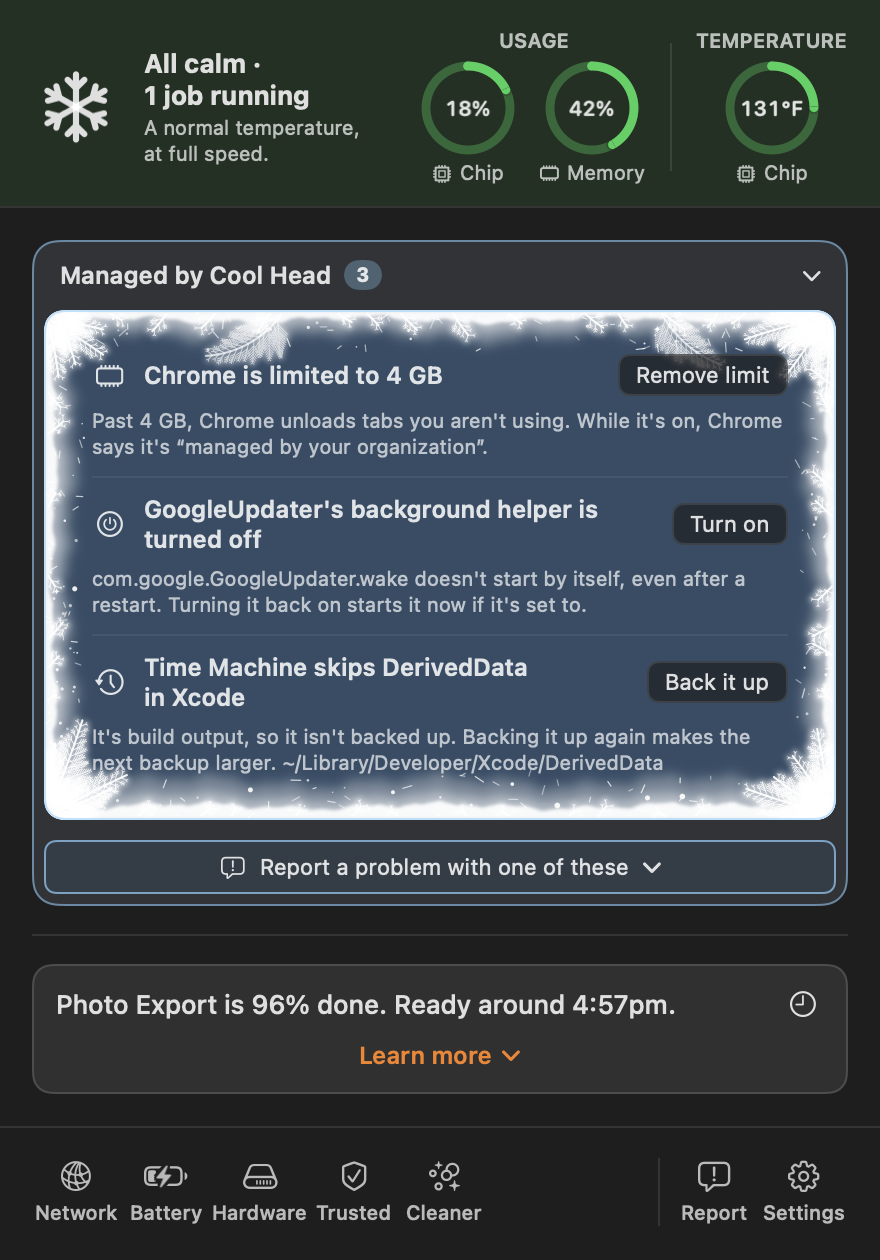
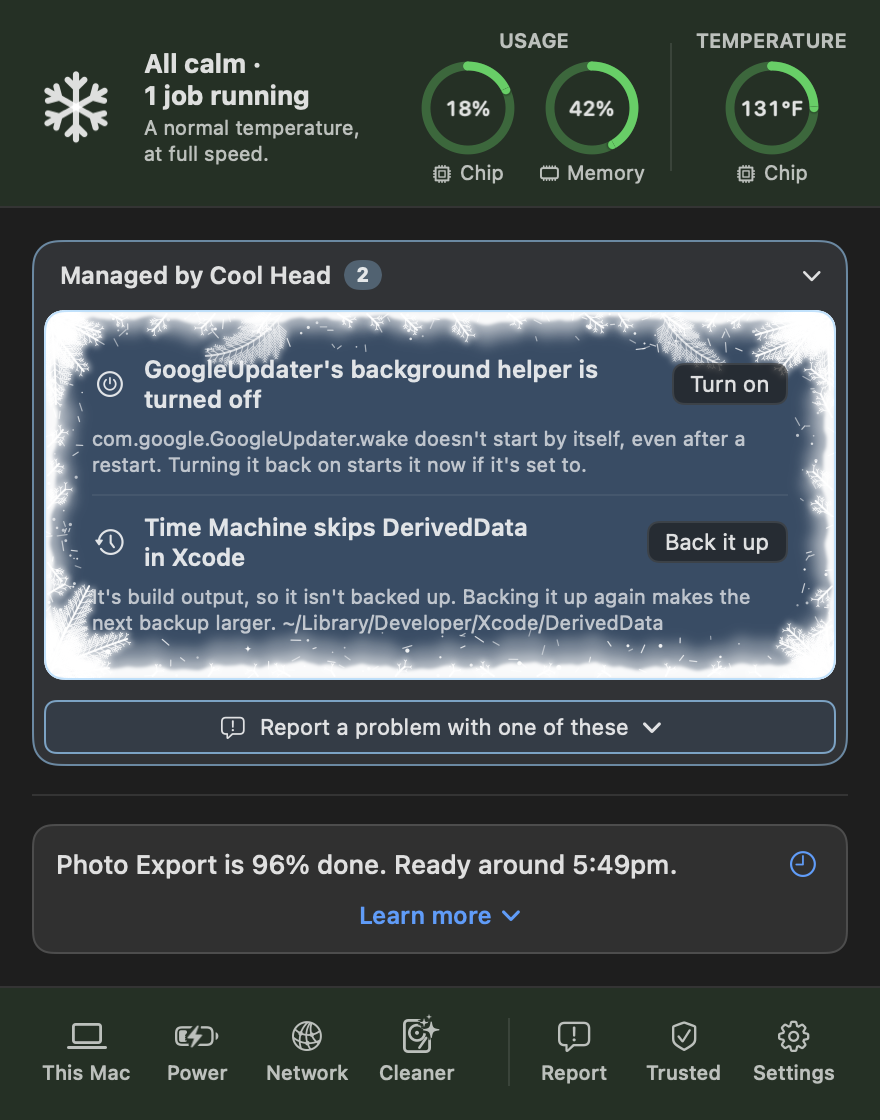
Cool Head blue, and a brand guide
Cool Head's accent was the Mac's accent color, so it was blue on most
Macs, orange on Phil's, and couldn't match its Chrome extension, which
Chrome keeps from reading it. Ink.accent is now Cool Head blue (#1769D1,
dark #4A9EFF, with near-black text on it in dark mode), passing WCAG AA
for text on it and as text. docs/BRAND.md sums up color, type, icons,
voice, and accessibility. README screenshots and the social card retaken.

Assisted-by: Claude Code:claude-opus-5-5

diff --git a/Sources/CoolHeadApp/PanelView.swift b/Sources/CoolHeadApp/PanelView.swift
@@ -124,6 +124,8 @@ struct PanelView: View {
             .environment(\.barWash, Color(nsColor: Badge.color(level)).opacity(0.10))
         }
         .frame(width: PanelView.width + extra)
+        // macOS's own controls (filled buttons) in Cool Head blue too, not the Mac's accent color (see Ink.accent)
+        .tint(Ink.accent)
     }
 
     /// For screenshots: COOLHEAD_SNAPSHOT_ONLY shows only cards whose headline contains that phrase (or any of several, separated by |),
@@ -343,7 +345,7 @@ struct CardView: View {
                 // anywhere on the card opens it and another closes it (Phil, 15 November 2026); this label says so in
                 // words with an arrow pointing the way it opens, and is itself a button for the keyboard and VoiceOver.
                 let watch = live.needsLook || (live.heatCause && !watcher.isCooled(live))
-                Disclosure(title: watch ? "Explore fixes" : "Learn more", open: open, tint: watch ? .orange : .accentColor) { toggle() }
+                Disclosure(title: watch ? "Explore fixes" : "Learn more", open: open, tint: watch ? .orange : Ink.accentText) { toggle() }
             }
             if open {
                 if !live.card.explanation.isEmpty {
@@ -401,7 +403,7 @@ struct CardView: View {
                 // less button and the matching styling makes it hard to click the right spot")
                 let watch = live.needsLook || (live.heatCause && !watcher.isCooled(live))
                 Divider().padding(.top, 4)
-                Disclosure(title: "Show less", open: open, tint: watch ? .orange : .accentColor) { toggle() }
+                Disclosure(title: "Show less", open: open, tint: watch ? .orange : Ink.accentText) { toggle() }
             }
         }
         .padding(12)
@@ -638,7 +640,7 @@ struct ShareView: View {
                 .font(.caption2).foregroundStyle(Ink.muted).fixedSize(horizontal: false, vertical: true)
         }
         .padding(10)
-        .background(Color.accentColor.opacity(0.08), in: RoundedRectangle(cornerRadius: 8))
+        .background(Ink.accent.opacity(0.08), in: RoundedRectangle(cornerRadius: 8))
     }
 }
 
@@ -798,7 +800,7 @@ struct WhatsNewCard: View {
         }
         .padding(12)
         .frame(maxWidth: .infinity, alignment: .leading)
-        .background(Color.accentColor.opacity(0.08), in: RoundedRectangle(cornerRadius: 10))
+        .background(Ink.accent.opacity(0.08), in: RoundedRectangle(cornerRadius: 10))
         .overlay(RoundedRectangle(cornerRadius: 10).strokeBorder(Ink.edge, lineWidth: 1))
     }
 }
@@ -942,7 +944,7 @@ struct WelcomeCard: View {
     var body: some View {
         VStack(alignment: .leading, spacing: 10) {
             HStack(spacing: 8) {
-                Image(systemName: "snowflake").font(.title3).foregroundStyle(Color.accentColor)
+                Image(systemName: "snowflake").font(.title3).foregroundStyle(Ink.accent)
                 Text("Cool Head lives up here, in your menu bar.").font(.body.weight(.semibold))
             }
             Text("No window to keep open. It quietly watches your Mac and tells you why it's hot or slow.")
@@ -959,7 +961,7 @@ struct WelcomeCard: View {
         }
         .padding(12)
         .frame(maxWidth: .infinity, alignment: .leading)
-        .background(Color.accentColor.opacity(0.08), in: RoundedRectangle(cornerRadius: 10))
+        .background(Ink.accent.opacity(0.08), in: RoundedRectangle(cornerRadius: 10))
         .overlay(RoundedRectangle(cornerRadius: 10).strokeBorder(Ink.edge, lineWidth: 1))
     }
 }
@@ -972,7 +974,7 @@ struct UpdateBanner: View {
         switch updater.phase {
         case .available(let v):
             HStack(spacing: 8) {
-                Image(systemName: "arrow.down.circle").foregroundStyle(Color.accentColor)
+                Image(systemName: "arrow.down.circle").foregroundStyle(Ink.accent)
                 Text("Cool Head \(v) is available.").font(.callout.weight(.medium))
                 Spacer()
                 if let page = updater.releasePage {
@@ -1414,7 +1416,7 @@ struct SelectField: View {
         .font(.callout)
         .foregroundStyle(Ink.text)
         .background(shape.fill(Color(nsColor: .controlBackgroundColor)))
-        .overlay(shape.strokeBorder(open ? Color.accentColor.opacity(0.6) : Color.primary.opacity(0.15), lineWidth: 1))
+        .overlay(shape.strokeBorder(open ? Ink.accent.opacity(0.6) : Color.primary.opacity(0.15), lineWidth: 1))
         .clipShape(shape)
     }
 
@@ -1428,7 +1430,7 @@ struct SelectField: View {
                 HStack(spacing: 6) {
                     Text(text).fixedSize(horizontal: false, vertical: true)
                     Spacer(minLength: 4)
-                    if on { Image(systemName: "checkmark").font(.caption.weight(.bold)).foregroundStyle(Color.accentColor) }
+                    if on { Image(systemName: "checkmark").font(.caption.weight(.bold)).foregroundStyle(Ink.accent) }
                 }
                 .padding(.horizontal, 10).padding(.vertical, 6)
                 .background(Color.primary.opacity(hovering ? 0.06 : 0))
@@ -1854,7 +1856,7 @@ struct FixRow: View {
                     if guarded && armed {
                         HStack(spacing: 10) {
                             Image(systemName: "exclamationmark.triangle.fill").font(.body).frame(width: 22)
-                                .foregroundStyle(recommended && fix.doer == .coolHead ? Color.white : Color.red)
+                                .foregroundStyle(recommended && fix.doer == .coolHead ? Ink.onAccent : Color.red)
                             VStack(alignment: .leading, spacing: 2) {
                                 Text(warning).font(.callout.weight(.semibold)).fixedSize(horizontal: false, vertical: true)
                                 Text("Click again to \(title.prefix(1).lowercased() + title.dropFirst()).").font(.callout).opacity(0.8)
@@ -1864,7 +1866,7 @@ struct FixRow: View {
                     } else {
                     HStack(alignment: tag == nil ? .center : .top, spacing: 10) {
                         Image(systemName: icon).font(.body).frame(width: 22)
-                            .foregroundStyle(recommended && fix.doer == .coolHead ? Color.white : ends ? Color.red : Color.accentColor)
+                            .foregroundStyle(recommended && fix.doer == .coolHead ? Ink.onAccent : ends ? Color.red : Ink.accent)
                         VStack(alignment: .leading, spacing: 2) {
                             // the tag beside the name when both fit on one line, otherwise above it, so a long name
                             // isn't squeezed into three lines beside it
@@ -1947,15 +1949,15 @@ struct OptionStyle: ButtonStyle {
             let line = Color.primary.opacity(hovering ? 0.55 : 0.4)
             let filled = recommended && !yours
             configuration.label
-                .foregroundStyle(filled ? Color.white : Ink.text)
+                .foregroundStyle(filled ? Ink.onAccent : Ink.text)
                 .padding(.horizontal, 11).padding(.vertical, 9)
                 .frame(maxWidth: .infinity, alignment: .leading)
-                .background(shape.fill(filled ? AnyShapeStyle(Color.accentColor.opacity(configuration.isPressed ? 0.75 : hovering ? 0.9 : 1))
+                .background(shape.fill(filled ? AnyShapeStyle(Ink.accent.opacity(configuration.isPressed ? 0.75 : hovering ? 0.9 : 1))
                                        : yours ? AnyShapeStyle(Color.primary.opacity(configuration.isPressed ? 0.12 : hovering ? 0.05 : 0))
                                        : AnyShapeStyle(Color.primary.opacity(wash))))
                 .overlay {
                     if yours {
-                        shape.strokeBorder(recommended ? Color.accentColor : line, style: StrokeStyle(lineWidth: recommended ? 1.6 : 1.3, dash: [4, 3]))
+                        shape.strokeBorder(recommended ? Ink.accent : line, style: StrokeStyle(lineWidth: recommended ? 1.6 : 1.3, dash: [4, 3]))
                     } else {
                         shape.strokeBorder(filled ? Color.clear : Color.primary.opacity(hovering ? 0.45 : 0.28), lineWidth: 1)
                     }
@@ -1982,7 +1984,7 @@ struct RecommendedButton: ButtonStyle {
         configuration.label
             .padding(.horizontal, 8).padding(.vertical, 4)
             .foregroundStyle(.white)
-            .background(RoundedRectangle(cornerRadius: 6).fill(Color.accentColor.opacity(configuration.isPressed ? 0.75 : 1)))
+            .background(RoundedRectangle(cornerRadius: 6).fill(Ink.accent.opacity(configuration.isPressed ? 0.75 : 1)))
             .opacity(enabled ? 1 : 0.5)
             .contentShape(Rectangle())
     }
@@ -2003,7 +2005,7 @@ struct OptionTag: View {
             Text(words).tracking(0.5)
         }
         .font(Font(OptionTag.font))
-        .foregroundStyle(onAccent ? Color.white : color)
+        .foregroundStyle(onAccent ? Ink.onAccent : color)
         .padding(.horizontal, 5).padding(.vertical, 1.5)
         .background(Capsule().fill(onAccent ? Color.white.opacity(0.22) : color.opacity(0.13)))
         .fixedSize()
@@ -2029,8 +2031,8 @@ struct RecommendedTag: View {
             .font(.caption2.weight(.semibold))
             .fixedSize()
             .padding(.horizontal, 6).padding(.vertical, 1.5)
-            .foregroundStyle(onAccent ? Color.accentColor : .white)
-            .background(Capsule().fill(onAccent ? Color.white.opacity(0.92) : Color.accentColor))
+            .foregroundStyle(onAccent ? Ink.accentText : Ink.onAccent)
+            .background(Capsule().fill(onAccent ? Color.white.opacity(0.92) : Ink.accent))
     }
 }
 
@@ -2075,6 +2077,21 @@ struct IconButton: View {
 enum Ink {
     /// Main text.
     static let text = Color.primary
+    /// Cool Head blue, its own color on every Mac and in its Chrome extension, rather than the Mac's accent color, which
+    /// is blue, orange, or another on each Mac and which Chrome hides from extensions (Phil, 21 November 2026: "set and
+    /// stick to Cool Head blue with brand guidelines, fonts, etc. for consistent experience across platforms", then
+    /// "Cool Head blue"). Light #1769D1, white text on it 5.3:1 and as text on the panel 4.9:1; dark #4A9EFF, near-black
+    /// text on it 7.6:1 and as text 6.1:1. A blue also keeps "do this" apart from the yellow, orange, and red that say
+    /// "watch out". See docs/BRAND.md.
+    static let accent = dynamic(0x1769D1, 0x4A9EFF)
+    /// Text on a filled accent: white in light mode, near-black in dark, where the lighter blue needs it.
+    static let onAccent = Color(nsColor: NSColor(name: nil) { a in a.bestMatch(from: [.darkAqua, .aqua]) == .darkAqua ? rgb(0x1A1A1A) : .white })
+    /// Text in the accent color on the panel.
+    static let accentText = accent
+    static func rgb(_ h: Int) -> NSColor { NSColor(srgbRed: CGFloat(h >> 16 & 255) / 255, green: CGFloat(h >> 8 & 255) / 255, blue: CGFloat(h & 255) / 255, alpha: 1) }
+    static func dynamic(_ light: Int, _ dark: Int) -> Color {
+        Color(nsColor: NSColor(name: nil) { a in a.bestMatch(from: [.darkAqua, .aqua]) == .darkAqua ? rgb(dark) : rgb(light) })
+    }
     /// Supporting text: still well above 7:1 contrast on the card in light and dark.
     static let muted = Color.primary.opacity(0.82)
     /// A card: a slightly raised surface with a visible edge.

diff --git a/Sources/CoolHeadApp/ToolsBar.swift b/Sources/CoolHeadApp/ToolsBar.swift
@@ -300,11 +300,11 @@ struct ToolButton: View {
             // "I also don't like how tight the margin is on the selected item. Please add some space on either side so it's not so tight (I guess increase the fixed width of each button on the left?), or decrease font size. Thoughts?"); the names keep their size
             .padding(.horizontal, labels ? 5 : 2)
             .padding(.vertical, labels ? 5 : 6)
-            .background(RoundedRectangle(cornerRadius: 7).fill(on ? Color.accentColor.opacity(0.16) : hovering ? Color.primary.opacity(0.07) : .clear))
+            .background(RoundedRectangle(cornerRadius: 7).fill(on ? Ink.accent.opacity(0.16) : hovering ? Color.primary.opacity(0.07) : .clear))
             .contentShape(Rectangle())
         }
         .buttonStyle(.plain)
-        .foregroundStyle(on ? Color.accentColor : hovering ? Ink.text : Ink.muted)
+        .foregroundStyle(on ? Ink.accent : hovering ? Ink.text : Ink.muted)
         .onHover { hovering = $0 }
         .help(tip)
         .accessibilityLabel(tip)
@@ -334,7 +334,7 @@ struct Orbit: View {
                     let gap = StrokeStyle(lineWidth: 3.9, lineCap: .round, dash: [2.5, 3], dashPhase: phase)
                     half.stroke(Color(nsColor: .windowBackgroundColor), style: gap)
                     half.stroke(wash, style: gap)
-                    if on { half.stroke(Color.accentColor.opacity(0.16), style: gap) }
+                    if on { half.stroke(Ink.accent.opacity(0.16), style: gap) }
                     else if hovering { half.stroke(Color.primary.opacity(0.07), style: gap) }
                 }
                 half.stroke(on ? Ink.muted : Color.orange, style: StrokeStyle(lineWidth: 1.7, lineCap: .round, dash: [2.5, 3], dashPhase: phase))
@@ -437,7 +437,7 @@ struct TrustedView: View {
         }
         .foregroundStyle(on ? Color.white : Ink.text)
         .padding(.horizontal, 8).padding(.vertical, 5)
-        .background(on ? Color.accentColor : stripe ? Color.primary.opacity(0.035) : .clear)
+        .background(on ? Ink.accent : stripe ? Color.primary.opacity(0.035) : .clear)
         .contentShape(Rectangle())
         .onTapGesture { selected = on ? nil : item.key }
         .accessibilityElement(children: .combine)

diff --git a/Sources/CoolHeadApp/CleanerView.swift b/Sources/CoolHeadApp/CleanerView.swift
@@ -50,7 +50,7 @@ struct CleanerView: View {
                 let v = Cleaner.verdict(finds)
                 HStack(alignment: .top, spacing: 9) {
                     Image(systemName: finds.isEmpty ? "checkmark.circle.fill" : "sparkles")
-                        .font(.title3).foregroundStyle(finds.isEmpty ? Color.green : Color.accentColor)
+                        .font(.title3).foregroundStyle(finds.isEmpty ? Color.green : Ink.accent)
                     VStack(alignment: .leading, spacing: 2) {
                         Text(v.title).font(.callout.weight(.semibold))
                         Text(v.meaning).foregroundStyle(Ink.muted).fixedSize(horizontal: false, vertical: true)
@@ -113,7 +113,7 @@ struct CleanerView: View {
         let bytes = quick.compactMap(\.bytes).reduce(0, +)
         return VStack(alignment: .leading, spacing: 8) {
             HStack(spacing: 8) {
-                Image(systemName: "sparkles").foregroundStyle(Color.accentColor).frame(width: 18)
+                Image(systemName: "sparkles").foregroundStyle(Ink.accent).frame(width: 18)
                 Text("Quick clean").font(.callout.weight(.semibold))
                 Spacer()
                 if bytes > 0 { Text(Fmt.fileSize(bytes)).foregroundStyle(Ink.muted) }
@@ -345,7 +345,7 @@ struct CleanerView: View {
             }
             .font(.caption)
         }
-        .buttonStyle(.plain).foregroundStyle(Color.accentColor)
+        .buttonStyle(.plain).foregroundStyle(Ink.accent)
     }
 
     func linkRow(symbol: String, title: String, detail: String, button: String, url: String) -> some View {

diff --git a/Sources/CoolHeadApp/EnergyWeek.swift b/Sources/CoolHeadApp/EnergyWeek.swift
@@ -36,7 +36,7 @@ struct EnergyWeek: View {
                         Divider()
                         Disclosure(title: more ? "Show only the top three"
                                                : "Show everything that used 5% or more this week (\(split.more.count) more)",
-                                   open: more, tint: .accentColor) { withAnimation(.easeOut(duration: 0.15)) { more.toggle() } }
+                                   open: more, tint: Ink.accent) { withAnimation(.easeOut(duration: 0.15)) { more.toggle() } }
                     }
                 }
                 .padding(12)
@@ -104,7 +104,7 @@ struct EnergyWeek: View {
                             Text(PowerHistory.share(row.share)).font(.callout.monospacedDigit()).foregroundStyle(Ink.text)
                         }
                         GeometryReader { g in
-                            Capsule().fill(Color.accentColor.opacity(0.55))
+                            Capsule().fill(Ink.accent.opacity(0.55))
                                 .frame(width: max(3, g.size.width * min(1, row.share)), height: 4)
                         }
                         .frame(height: 4)

diff --git a/Sources/CoolHeadApp/SettingsView.swift b/Sources/CoolHeadApp/SettingsView.swift
@@ -150,7 +150,7 @@ struct IconStylePicker: View {
                 HStack(spacing: 0) {
                     HStack(spacing: 6) {
                         Image(systemName: on ? "largecircle.fill.circle" : "circle")
-                            .foregroundStyle(on ? Color.accentColor : Ink.muted)
+                            .foregroundStyle(on ? Ink.accent : Ink.muted)
                         VStack(alignment: .leading, spacing: 1) {
                             Text(name).font(.callout)
                             Text(how).font(.caption2).foregroundStyle(Ink.muted).fixedSize(horizontal: false, vertical: true)
@@ -162,7 +162,7 @@ struct IconStylePicker: View {
                     }
                 }
                 .padding(.vertical, 3).padding(.leading, 6)
-                .background(RoundedRectangle(cornerRadius: 6).fill(on ? Color.accentColor.opacity(0.12) : .clear))
+                .background(RoundedRectangle(cornerRadius: 6).fill(on ? Ink.accent.opacity(0.12) : .clear))
                 .contentShape(Rectangle())
                 .onTapGesture { style = key }
                 .accessibilityElement(children: .ignore)

diff --git a/Sources/CoolHeadApp/NetworkView.swift b/Sources/CoolHeadApp/NetworkView.swift
@@ -200,7 +200,7 @@ struct NetworkView: View {
             case .testing(let started):
                 TimelineView(.periodic(from: started, by: 1)) { t in
                     let left = max(1, NetworkCheck.testSeconds - Int(t.date.timeIntervalSince(started)))
-                    statusText("arrow.triangle.2.circlepath", Color.accentColor, "Testing…", "About \(left) seconds left. Calls and downloads may slow for a moment.")
+                    statusText("arrow.triangle.2.circlepath", Ink.accent, "Testing…", "About \(left) seconds left. Calls and downloads may slow for a moment.")
                 }
             case .done(let outcome):
                 let v = NetworkCheck.verdict(outcome)

diff --git a/Sources/CoolHeadApp/HardwareView.swift b/Sources/CoolHeadApp/HardwareView.swift
@@ -138,7 +138,7 @@ struct HardwareView: View {
                 GeometryReader { g in
                     ZStack(alignment: .leading) {
                         Capsule().fill(Color.primary.opacity(0.1))
-                        Capsule().fill(space.low ? NetworkView.color(1) : Color.accentColor.opacity(0.7))
+                        Capsule().fill(space.low ? NetworkView.color(1) : Ink.accent.opacity(0.7))
                             .frame(width: max(6, g.size.width * space.used))
                     }
                 }

diff --git a/Sources/CoolHeadApp/BatteryView.swift b/Sources/CoolHeadApp/BatteryView.swift
@@ -112,7 +112,7 @@ struct PanelSwitch: ToggleStyle {
             configuration.label
             Spacer(minLength: 8)
             Capsule()
-                .fill(on ? Color.accentColor : Color.primary.opacity(0.2))
+                .fill(on ? Ink.accent : Color.primary.opacity(0.2))
                 .frame(width: 32, height: 18)
                 .overlay(alignment: on ? .trailing : .leading) {
                     Circle().fill(Color.white).shadow(color: .black.opacity(0.25), radius: 0.5, y: 0.5).padding(2)

diff --git a/docs/BRAND.md b/docs/BRAND.md
@@ -1,0 +1,47 @@
+# Cool Head's look and voice
+
+One look and one voice for the Mac app, its Chrome extension, and these pages, on every platform (Phil, 21 November 2026: "set and stick to Cool Head blue with brand guidelines, fonts, etc. for consistent experience across platforms", then "Cool Head blue"). Contrast figures are WCAG 2.2 ratios; AA asks 4.5:1 for text and 3:1 for icons and control edges.
+
+## Color
+
+**Cool Head blue** is the color of what Cool Head does and offers: the recommended option, switches that are on, the selected tool, links, and focus rings. It's Cool Head's own, not the Mac's accent color, which differs on each Mac and which Chrome hides from extensions. A blue also keeps "do this" apart from the yellow, orange, and red that say "watch out".
+
+| Use | Light | Dark |
+|---|---|---|
+| Blue, fills and text | `#1769D1` | `#4A9EFF` |
+| Text on a blue fill | white, 5.3:1 | near-black `#1A1A1A`, 7.6:1 |
+| Blue text on the panel | 4.9:1 on the light panel | 6.1:1 on `#1E1E1E` |
+
+**Status colors** say how the Mac is, and never mean "click here":
+
+| Status | Color | Used for |
+|---|---|---|
+| All good | macOS green | the top row's wash, gauges, the menu bar badge |
+| Worth watching | yellow `#FFBD00` | the same |
+| Problem | macOS red | the same; "ends without saving" on options |
+| Caution | macOS orange | warnings on cards, the network test's dashes |
+
+Status colors always come with words or a shape (the Melting Snowflake icon works without color), never color alone. As text on the light panel they fall short of 4.5:1, so they're used for fills, washes, and marks, with the words in the text color.
+
+**Neutrals** are macOS's own text colors, the panel's card and edge colors in `Ink` (Sources/CoolHeadApp/PanelView.swift), and the level's wash at 10% behind the top row and the tools bar.
+
+## Type
+
+The system font everywhere, so each feels native: SF Pro on the Mac (SwiftUI's defaults: body, callout, and caption), and in the extension the system stack `system-ui, -apple-system, "Segoe UI", Roboto, sans-serif`, which is SF Pro on a Mac, Segoe UI on Windows, and the desktop's own font on Linux. Monospaced only for Nerdy stuff. Sentence case for every title, button, and heading.
+
+## Icons
+
+- The app's icon: a smiling face with snowflakes on Cool Head blue (docs/images/logo.png).
+- The menu bar: a snowflake, with a status badge or melting as it warms (docs/images/menu-icons.png).
+- Inside the app: SF Symbols, in the text color or Cool Head blue. Two arrows in a circle mean Cool Head and its Chrome extension are working together, wherever that shows.
+
+## Voice
+
+- Plain words a person who isn't technical understands; US English; the Oxford comma; no em dashes; no exclamation marks.
+- A card gives the verdict, a brief disclaimer, and the advice, and says what Cool Head thinks rather than leaving it to the reader.
+- Every "why" ends in what it means for the person.
+- Each option says what it does and what it costs before it's pressed.
+
+## Accessibility
+
+Text at least 4.5:1, icons and control edges at least 3:1, in light and dark; nothing by color alone; every control reachable by keyboard and named for VoiceOver; targets at least 24 by 24 points; no motion that matters when reduced motion is on.

diff --git a/DESIGN.md b/DESIGN.md
@@ -2,6 +2,8 @@
 
 Drafted 14 November 2026 for Phil's review, at his request: *"we also should possibly consider user journeys, workflows, UX, layout, build language and other choices"*. Each choice has a recommendation and the reason; Phil decides.
 
+Color, type, icons, voice, and accessibility minimums for the app and its Chrome extension are summed up in [docs/BRAND.md](docs/BRAND.md): Cool Head blue is its own color, not the Mac's accent (Phil, 21 November 2026: "Cool Head blue").
+
 ## Journeys
 
 1. **"Why is my Mac hot?"** Click the menu bar icon. The panel opens on the answer: one card per cause, worst first. If all is calm, it says so in one line.
